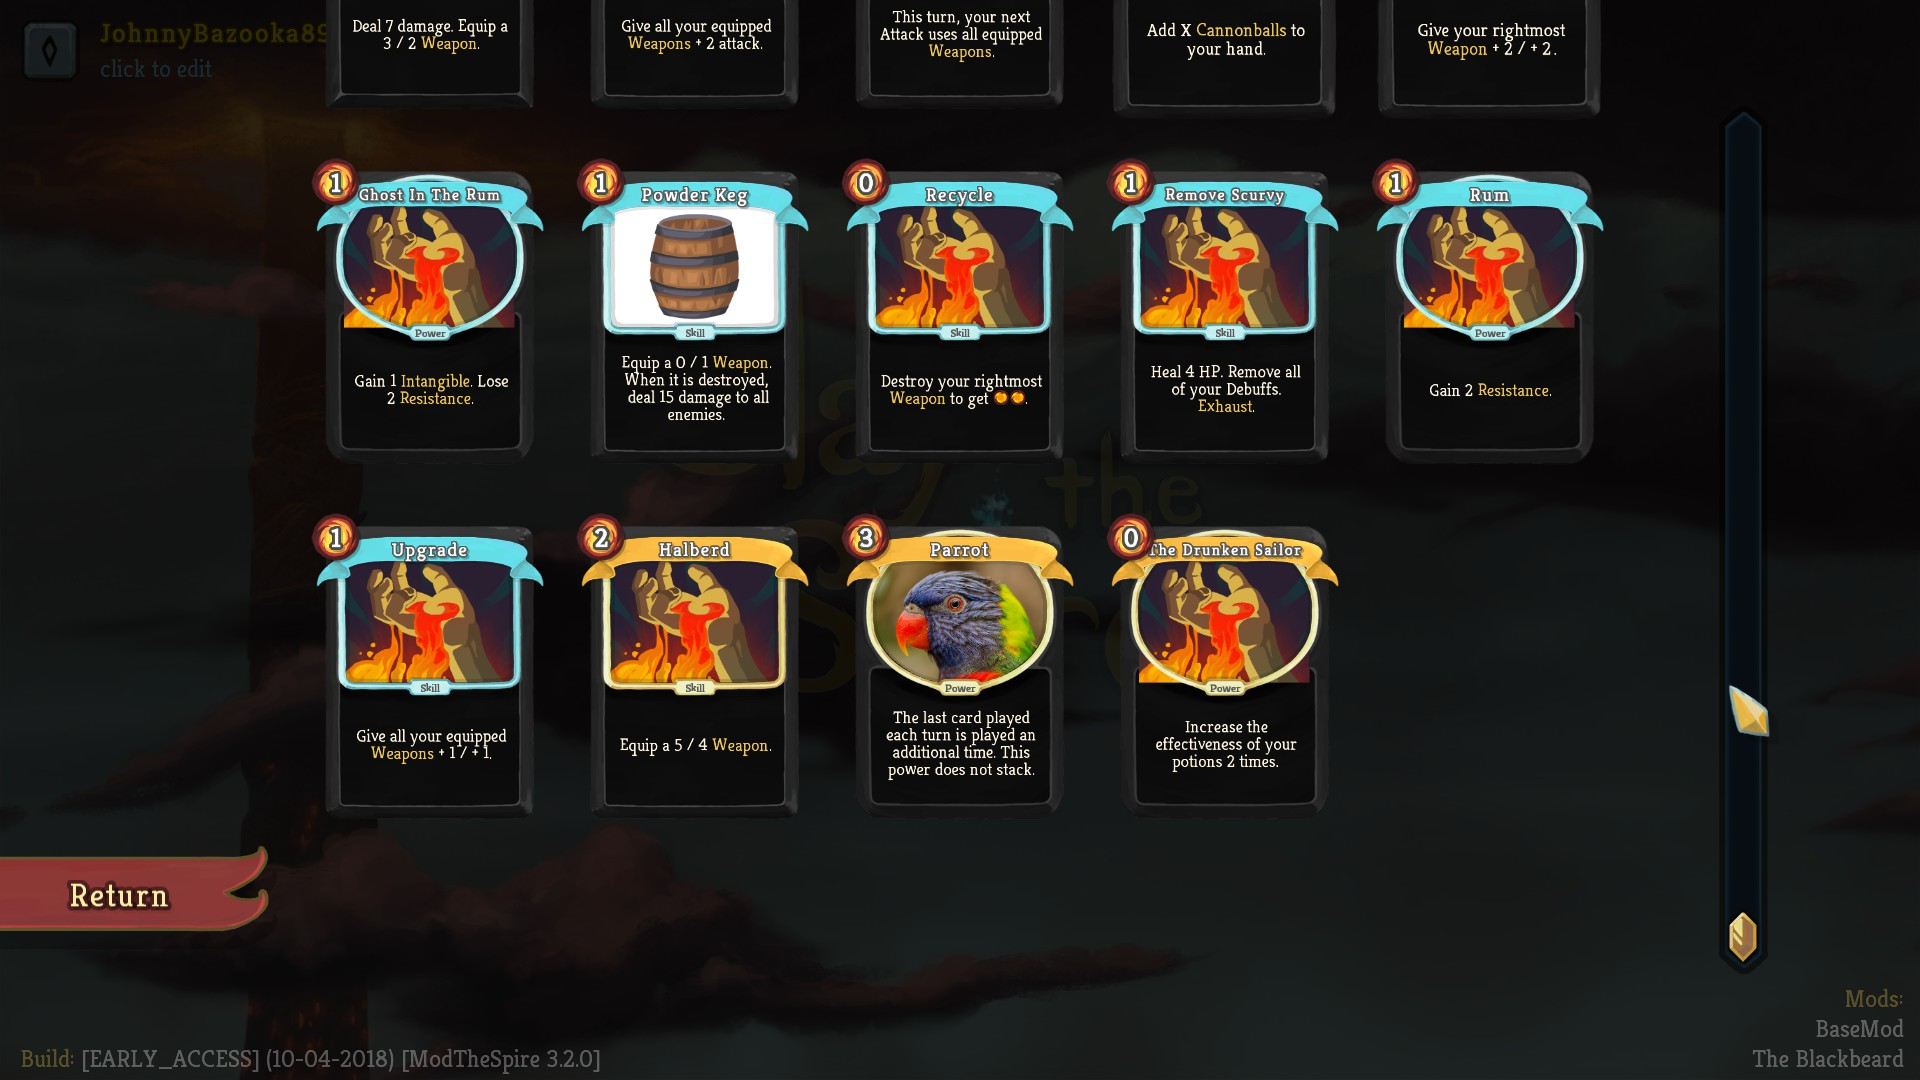
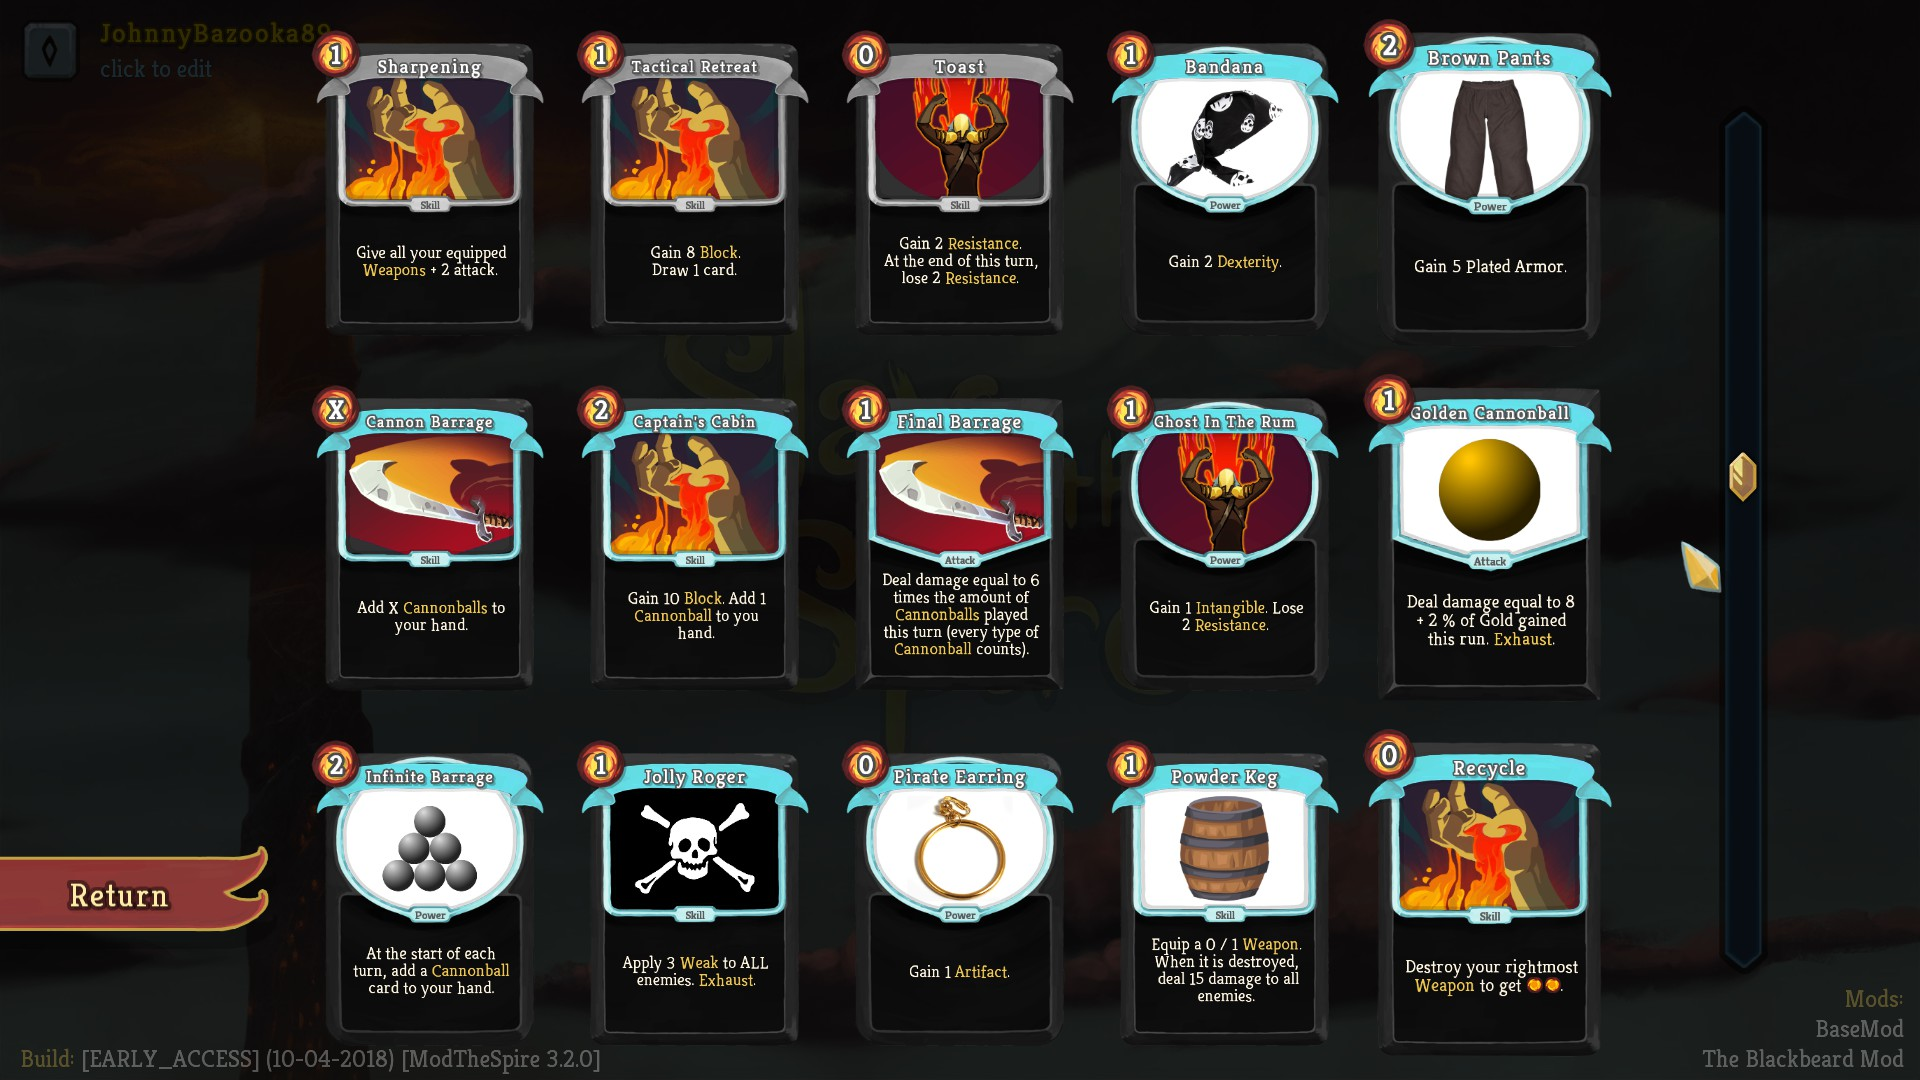
Preparation to version 0.0.2 release.

diff --git a/README.md b/README.md
@@ -1,5 +1,5 @@
 # StSModTheBlackbeard
-This mod adds a new character for Slay The Spire, named The Blackbeard. Currently ~20 cards of 75 planned are finished. Mod is currently under intensive development, so if you want to just play it, then please wait until it is finished and tested properly.
+This mod adds a new character for Slay The Spire, named The Blackbeard. Currently 37 cards of 75 planned are finished. Mod is currently under intensive development, so if you want to just play it, then please wait until it is finished and tested properly.
 
 The Blackbeard is a new class based on pirate theme. His most important mechanic are Weapons. There are many cards that allow to Equip a Weapon and each Weapon is characterized by its Attack and Durability. You can equip many Weapons, and they are queued using Defect's orb system. Every time you play an attack card, one Durability of your rightmost Weapon is used and card's damage is increased by Weapon's attack. You can Equip maximum of 10 Weapons. Weapons with zero durability are automatically destroyed. Orb slots are created automatically when you equip a Weapon and are automatically destroyed when Weapon is destroyed.
 
@@ -20,6 +20,8 @@ Currently developed cards:
 ![Cards1](screenshots/Cards1.jpg)
 
 ![Cards2](screenshots/Cards2.jpg)
+
+![Cards3](screenshots/Cards3.jpg)
 
 ## Requirements ##
 
